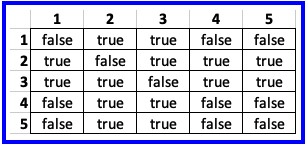
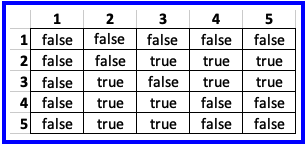
PM3 assignment

diff --git a/Assignments/2024/PM3/PM3.html b/Assignments/2024/PM3/PM3.html
@@ -22,26 +22,25 @@
   <tbody>
     <tr>
       <td><ul>
-  <li>1) In the folder <em>csse373devenv202x30-yourID/components/include/UnlabeledUndirectedGraph</em> create UnlabeledUndirectedGraph2.hpp </li>
-		  <li>2) In UnlabeledUndirectedGraph2.hpp implement class UnlabeledUndirectedGraph2</li>
+  <li>1) In the folder <em>csse373devenv202x30-yourID/components/include/UnlabeledUndirectedGraph</em> create UnlabeledUndirectedGraph3.hpp </li>
+		  <li>2) In UnlabeledUndirectedGraph3.hpp implement class UnlabeledUndirectedGraph3</li>
   
   <li>3) You must: 
 	<ul>
-		<li>Implement UnlabeledUndirectedGraph2 using an adjacency matrix - see Figure 1 for an example<br>
-		You may also add additional representation variables in order to achieve better performance for some of the exported operations, i.e., utilize the engineering technique "a space for time trade-off"</li>
+		<li>Implement UnlabeledUndirectedGraph3 the same way your implemented UnlabeledUndirectedGraph2, i.e., by using an adjacancy matrix</li>
 		
-		<li>Use a layered implementation by layering on the CeramicArray1 component and its corresponding CeramicArrayChecking1 component</li>
+		<li>Use a layered implementation by layering on the PartitionableArray1 component and its corresponding PartitionableArrayChecking1 component</li>
 		<li>Implement all 15 methods - see Figure 2</li>
-		<li>Use C++'s conditional compilation and use CeramicArrayChecking1 in Debug Mode and only CeramicArray1 when in Release mode</li>
-	  <li>Define the correspondence as a comment in the<br>'private: // Representation' part <br>
-		This will be visually inspected during grading<br>
-		It might look something like:<pre>self = ...</pre><br>
-Where the "..." has something to do with the CeramicArray representation variable you have declared.<br>
-Use English if you have to when writing the correspondence </li>
+		<li>Use C++'s conditional compilation and use PartitionableArrayChecking1 in Debug Mode and only PartitionableArray1 when in Release mode</li>
+	  
 	  </ul>
 
 	</li>
   
+
+  <li>Important requirements on implementing the following graph operations:
+<em>removeAnyIncidentEdge</em>, <em>removeAnyEdge</em>, and <em>degree</em><br>
+These operations must leverage the power of PartitionableArray1 in order to make all 3 execute in O(1) time</li>
   <li>Important requirements on implementing <em>operator &lt;&lt;</em>
 	  <br>
 	  I recommend that you <em>start with</em> the implementation found in UnlabeledUndirectedGraph1.hpp<br><br>
@@ -59,6 +58,8 @@ Use English if you have to when writing the correspondence </li>
          ({1,2,3,4,5},{{1,2},{1,3},{2,3},{2,4},{2,5},{3,4},{3,5}})</li>
 	  </ul>
 	</li>
+	
+   
 
   <li>To test your implementation you might want to use the driver.cpp found in the project named UUGraphDriver (which is in your repo)</li>
 </ul>
@@ -66,26 +67,29 @@ Use English if you have to when writing the correspondence </li>
 			  <img src="UUGV2.png" width="500" height="325" alt=""/><br>
 	    <strong>Figure 2</strong></p>
 	  </td>
-      <td width="570"><p align="center"><img src="PM2React.png" width="377" height="342" alt=""/><br>
+      <td width="570"><p align="center"><img src="PM3React.png" width="377" height="342" alt=""/><br>
 		  <img src="reactAdjMatrix.png" width="307" height="147" alt=""/><br>
-		  <strong>Figure 1</strong> - Graph <strong><em>g</em></strong> and its adjacency matrix</p>
+		  <strong>Figure 1</strong> - Graph <strong><em>g</em></strong> and its adjacency matrix<br>
+Note: row #1 has no "interesting" cells<br>
+where "interesting" means there exists an edge {row#,col#}</p>
 		</td>
     </tr>
   </tbody>
-</table>
+</table>	
 
 
 <h3>2. Grading of PM3</h3>
 <ul>
-  <li>Your UnlabeledUndirectedGraph2.hpp will be compiled/built/tested in Release Mode against Dr. Holly's private set of 
+  <li>Your UnlabeledUndirectedGraph3.hpp will be compiled/built/tested in Release Mode against Dr. Holly's private set of 
       specification-based test cases
   </li>
 	<li>These test cases will utilize your <em>operator &lt;&lt;</em> in order to convert a graph variable into a Text object.<br>
 If your <em>operator &lt;&lt;</em> fails to follow the requirements outlined above, then the test will fail</li>
-	  <li>If your UnlabeledUndirectedGraph2 fails test cases (i.e., when/if those test cases reveal defects, or <em>operator &lt;&lt;</em> does not work as is required) your submission will 
+	  <li>If your UnlabeledUndirectedGraph3 fails test cases (i.e., when/if those test cases reveal defects, or <em>operator &lt;&lt;</em> does not work as is required) your submission will 
       earn less than 100% for this milestone
   </li>
-  <li>Your UnlabeledUndirectedGraph2 fails to compile/build your submission will earn zero credit for this milestone</li>
+  <li>Your UnlabeledUndirectedGraph3 fails to compile/build your submission will earn zero credit for this milestone</li>
+  <li>Your UnlabeledUndirectedGraph3.hpp will be visually inspected to check that it uses PartitionableArray1 in a way so that <em>removeAnyIncidentEdge</em>, <em>removeAnyEdge</em>, and <em>degree</em> execute in O(1) time </li>
 
 </ul>
 
